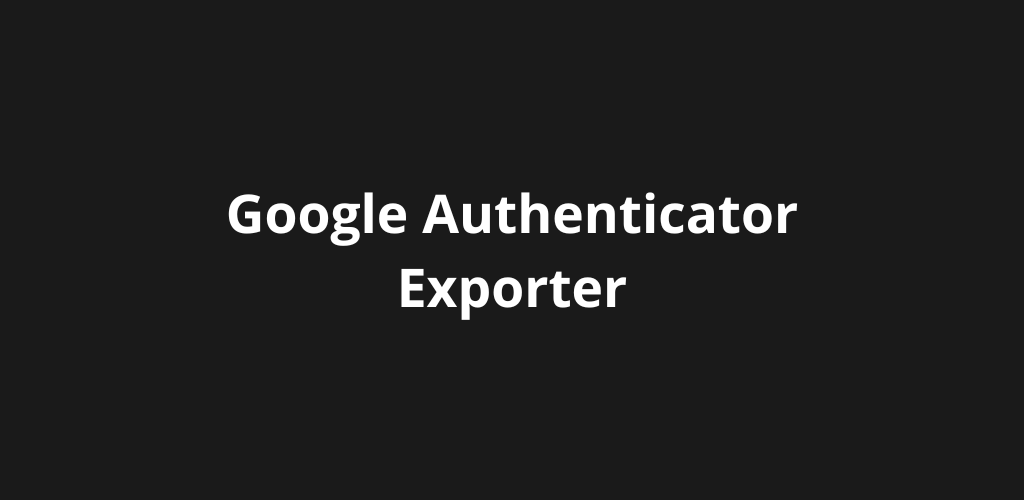
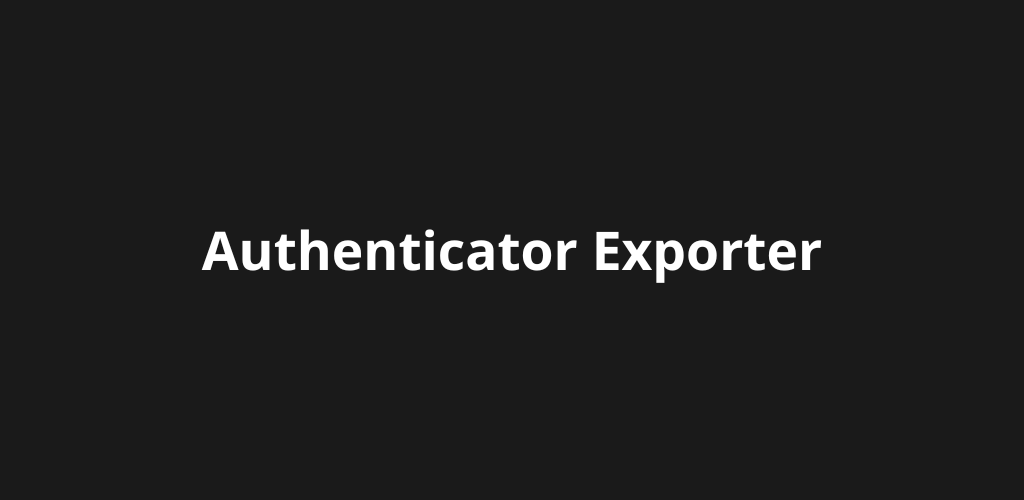
Removing Google's name for copyright reasons

Changed region(s): [[0.1875, 0.39, 0.8125, 0.63]]

diff --git a/lib/ui/home_page.dart b/lib/ui/home_page.dart
@@ -34,7 +34,7 @@ class _HomePageState extends State<HomePage> {
   Widget build(BuildContext context) {
     return Scaffold(
       appBar: AppBar(
-        title: const Text('Google Authenticator Exporter'),
+        title: const Text('Authenticator Exporter'),
         centerTitle: true,
       ),
       body: Padding(
@@ -46,9 +46,9 @@ class _HomePageState extends State<HomePage> {
               text: TextSpan(
                 style: Theme.of(context).textTheme.bodyMedium,
                 children: [
-                  const TextSpan(text: 'This app is meant to securely import your verification codes from Google Authenticator, so you can export them to any other app you want.\n\n'),
-                  const TextSpan(text: "Google Authenticator generates a proprietary QR Code for exporting your 2FA to another device. It blocks screenshots, so you can't "
-                      "use this app for scanning the Google Authenticator QR code in the same device.\n\n"),
+                  const TextSpan(text: 'This app is meant to securely import your verification codes from Authenticator, so you can export them to any other app you want.\n\n'),
+                  const TextSpan(text: "Authenticator generates a proprietary QR Code for exporting your 2FA to another device. It blocks screenshots, so you can't "
+                      "use this app for scanning the Authenticator QR code in the same device.\n\n"),
                   const TextSpan(text: 'You can take a picture of the QR code with another device (computer, phone, etc.), then scan the picture with this app.\n\n'),
                   const TextSpan(text: "This app doesn't store or transmit any data to the internet and is open-sourced. You can find the code "),
                   TextSpan(
@@ -75,7 +75,7 @@ class _HomePageState extends State<HomePage> {
                     ),
                   );
                 } on InvalidQrCodeException {
-                  await showMessageDialog('Invalid QR Code', 'This QR Code is not from Google Authenticator.');
+                  await showMessageDialog('Invalid QR Code', 'This QR Code is not from Authenticator.');
                 }
               },
               child: const Text('Scan QR Code'),

diff --git a/lib/main.dart b/lib/main.dart
@@ -21,7 +21,7 @@ class _MyAppState extends State<MyApp> {
   @override
   Widget build(BuildContext context) {
     return MaterialApp(
-      title: 'Google Authenticator Exporter',
+      title: 'Authenticator Exporter',
       theme: ThemeData.dark(useMaterial3: true),
       home: const HomePage(),
       navigatorObservers: [routeObserver],

diff --git a/web/index.html b/web/index.html
@@ -18,7 +18,7 @@
 
   <meta charset="UTF-8">
   <meta content="IE=Edge" http-equiv="X-UA-Compatible">
-  <meta name="description" content="Google Auth Exporter">
+  <meta name="description" content="Auth Exporter">
 
   <!-- iOS meta tags & icons -->
   <meta name="apple-mobile-web-app-capable" content="yes">

diff --git a/README.md b/README.md
@@ -1,10 +1,10 @@
 ## About
 
-Unfortunately Google Authenticator exports its verification codes in a proprietary QR Code.
+Unfortunately Authenticator exports its verification codes in a proprietary QR Code.
 
-Sometimes we want to import these codes into anther software, but many programs can't read Google Authenticator's QR Codes.
+Sometimes we want to import these codes into anther software, but many programs can't read Authenticator's QR Codes.
 
-This app was created so you can read Google Authenticator's QR Codes and export the verification codes to any other app. This app will generate the original QR Codes for these accounts.
+This app was created so you can read Authenticator's QR Codes and export the verification codes to any other app. This app will generate the original QR Codes for these accounts.
 
 ## Getting Started
 
